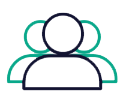
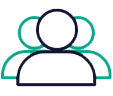
-chats read by recipient? Y/N OK

Changed region(s): [[0.0, 0.0625, 1.0, 0.9062]]

diff --git a/ExaminerB/Service/BeService.cs b/ExaminerB/Service/BeService.cs
@@ -3669,15 +3669,15 @@ COMMIT TRANSACTION;
             }
         public async Task<List<Chat>> Read_ChatsAsync (int studentId)
             {
-            //1 get net-list of chatMates
+            // 1 get net-list of chatMates (a net list of ids chat to me or I chat to them)
             List<int> lstMateIds = new List<int> ();
             string sql = @"SELECT DISTINCT ch.FromId mateId
-                        FROM Chats ch INNER JOIN Students sf ON ch.FromId = sf.StudentId
-                        WHERE ch.ToId=@meId
-                        UNION
-                        SELECT DISTINCT ch.ToId mateId
-                        FROM Chats ch INNER JOIN Students st ON ch.ToId = st.StudentId
-                        WHERE ch.FromId = @meId";
+                            FROM Chats ch INNER JOIN Students sf ON ch.FromId = sf.StudentId
+                            WHERE ch.ToId=@meId
+                            UNION
+                            SELECT DISTINCT ch.ToId mateId
+                            FROM Chats ch INNER JOIN Students st ON ch.ToId = st.StudentId
+                            WHERE ch.FromId = @meId";
             string? connString = _config.GetConnectionString ("cnni");
             using SqlConnection cnn = new (connString);
             await cnn.OpenAsync ();
@@ -3690,7 +3690,7 @@ COMMIT TRANSACTION;
                 lstMateIds.Add (reader1.GetInt32 (0));
                 }
             await reader1.CloseAsync ();
-            //2 get display data
+            // 2 get chat data
             List<Chat> lstChats = new List<Chat> ();
             lstChats.Clear ();
             foreach (int mateId in lstMateIds)

diff --git a/ExaminerS/Models/DTOs.cs b/ExaminerS/Models/DTOs.cs
@@ -367,7 +367,7 @@ namespace ExaminerS.Models
         public string ToName { get; set; } = "";
         public string DateTimeSent { get; set; } = "";
         public string ChatText { get; set; } = "";
-        public int ChatTags { get; set; } = 0;
+        public int ChatTags { get; set; } = 0; //Tags: {1:IsRead 2:IsImp 4:IsBookmarked 8:IsDeleted}
         //wrapper properties for each flag
         public bool IsRead
             {
@@ -451,7 +451,7 @@ namespace ExaminerS.Models
         {
         public int NoteId { get; set; } = 0;
         public int ParentId { get; set; } = 0;
-        public int ParentType { get; set; } = 0; //1:SP 2:St 3:Gr 4:Cr 5:Ex
+        public int ParentType { get; set; } = 0; //parentTypes 1:user(U) 2:subprojects(SP) 3:students(S) 4:groups(G) 5:courses(C) 6:exams(E) 7:studentnotes(SN)
         public string ParentName { get; set; } = "";
         public string NoteDatum { get; set; } = "";
         public string NoteText { get; set; } = "";

diff --git a/ExaminerB/Program.cs b/ExaminerB/Program.cs
@@ -16,8 +16,6 @@ builder.Services.AddHttpClient<FeService> (client =>
         //var baseAddress = builder.Configuration["BaseAddress"] ?? "http://localhost:5232";  //local server: for Linux (http ONLY)
         var baseAddress = builder.Configuration["BaseAddress"] ?? "https://localhost:7139";  //local server: for Windows
         //var baseAddress = builder.Configuration["BaseAddress"] ?? "https://x.msht.ir";       //remote server: [x].msht.ir
-        //var baseAddress = builder.Configuration["BaseAddress"] ?? "https://v.msht.ir";      //remote server: [v].msht.ir
-        //var baseAddress = builder.Configuration["BaseAddress"] ?? "https://www.msht.ir";    //remote server: wwww.msht.ir
         client.BaseAddress = new Uri (baseAddress);
         client.Timeout = TimeSpan.FromSeconds (120);
     });